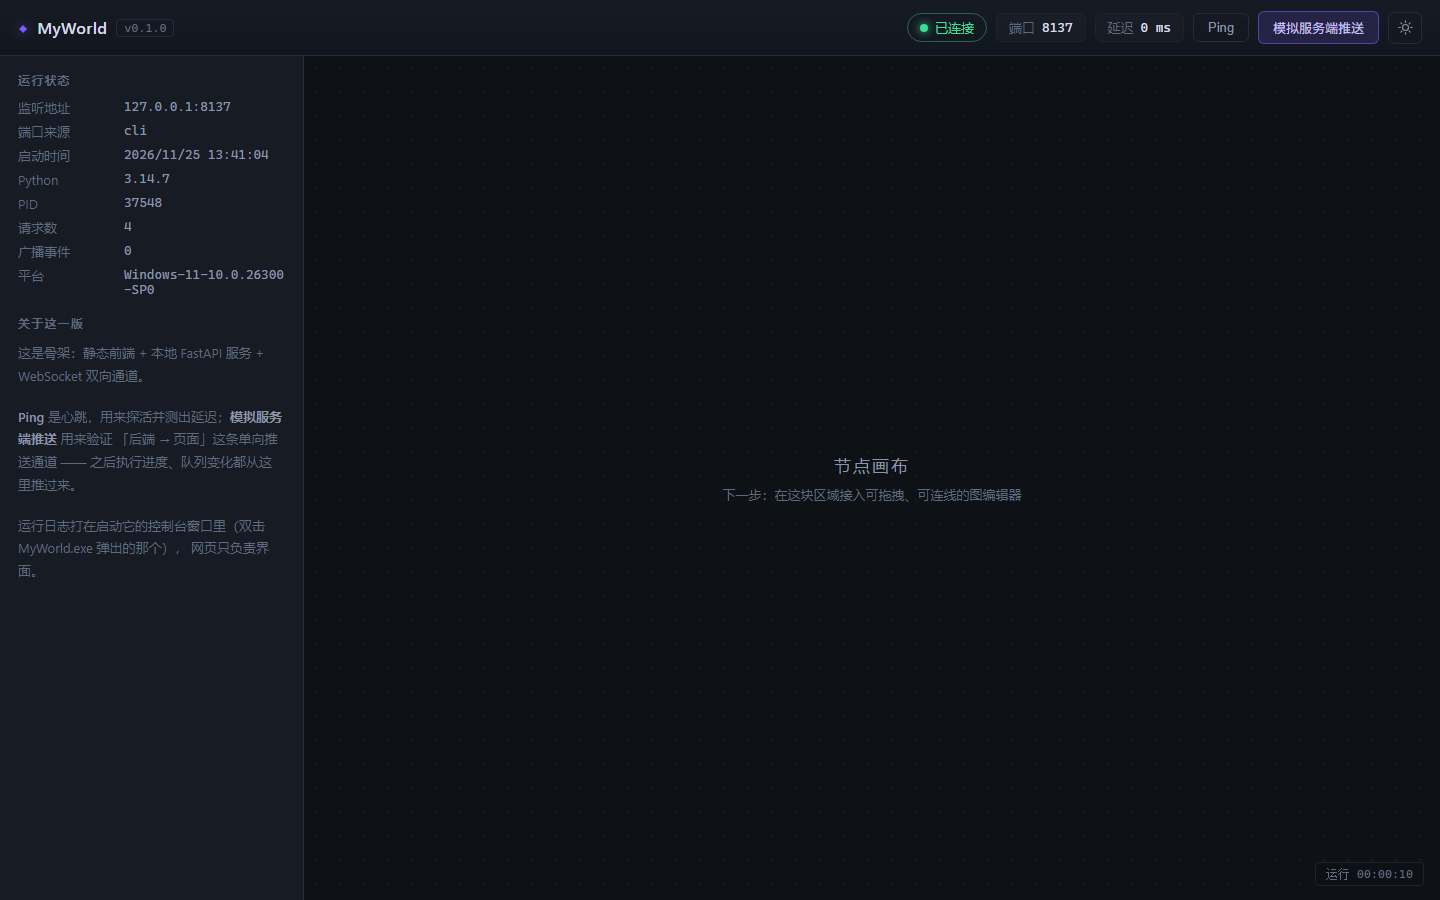
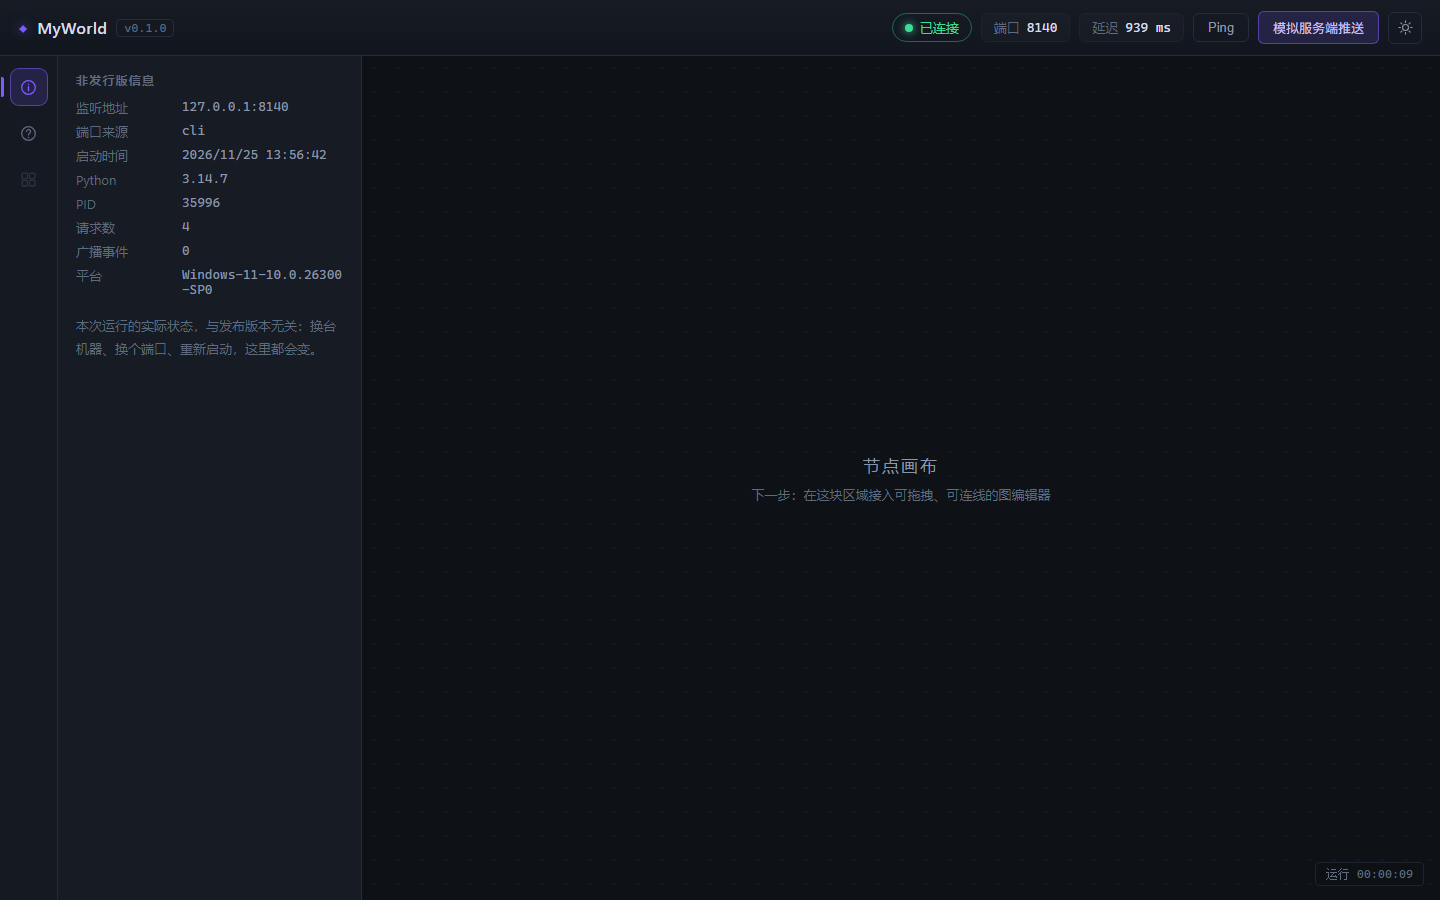
feat: 左侧新增竖向功能区，「非发行版信息」承载运行状态
- index.html: 最左侧加 .rail（58px 竖向图标栏），项：非发行版信息 / 关于 / 节点画布（禁用占位）
- 内容面板拆成 .pane：运行状态并入「非发行版信息」，说明文案移到「关于」
- app.js: 功能区切换（is-active + aria-pressed，隐藏非当前 pane）
- css: 布局改为 rail + panel + 画布三列，--rail-w 纳入排版刻度；
  窄屏下功能区与面板一起隐藏
- 截图同步更新

diff --git a/web/index.html b/web/index.html
@@ -53,21 +53,57 @@
   </header>
 
   <main class="layout">
+    <!-- 最左侧竖向功能区：一个图标就是一栏内容 -->
+    <nav class="rail" aria-label="功能区">
+      <button class="rail-item is-active" data-pane="info" title="非发行版信息" aria-label="非发行版信息" aria-pressed="true">
+        <svg viewBox="0 0 24 24" aria-hidden="true">
+          <circle cx="12" cy="12" r="8.6" fill="none" stroke="currentColor" stroke-width="1.6" />
+          <path d="M12 10.9v5.2" stroke="currentColor" stroke-width="1.7" stroke-linecap="round" />
+          <circle cx="12" cy="8.2" r="0.95" fill="currentColor" />
+        </svg>
+      </button>
+      <button class="rail-item" data-pane="about" title="关于" aria-label="关于" aria-pressed="false">
+        <svg viewBox="0 0 24 24" aria-hidden="true">
+          <circle cx="12" cy="12" r="8.6" fill="none" stroke="currentColor" stroke-width="1.6" />
+          <path d="M9.6 9.4a2.5 2.5 0 1 1 3.7 2.3c-.9.5-1.3 1-1.3 1.9v.4"
+                fill="none" stroke="currentColor" stroke-width="1.6" stroke-linecap="round" />
+          <circle cx="12" cy="17.1" r="0.95" fill="currentColor" />
+        </svg>
+      </button>
+      <button class="rail-item" data-pane="canvas" title="节点画布（即将推出）" aria-label="节点画布（即将推出）" disabled>
+        <svg viewBox="0 0 24 24" aria-hidden="true">
+          <rect x="3.8" y="3.8" width="7" height="7" rx="1.4" fill="none" stroke="currentColor" stroke-width="1.6" />
+          <rect x="13.2" y="3.8" width="7" height="7" rx="1.4" fill="none" stroke="currentColor" stroke-width="1.6" />
+          <rect x="3.8" y="13.2" width="7" height="7" rx="1.4" fill="none" stroke="currentColor" stroke-width="1.6" />
+          <rect x="13.2" y="13.2" width="7" height="7" rx="1.4" fill="none" stroke="currentColor" stroke-width="1.6" />
+        </svg>
+      </button>
+    </nav>
+
+    <!-- 功能区对应的内容面板 -->
     <aside class="panel">
-      <h2>运行状态</h2>
-      <dl class="meta" id="meta"></dl>
-      <h2>关于这一版</h2>
-      <p class="hint">
-        这是骨架：静态前端 + 本地 FastAPI 服务 + WebSocket 双向通道。
-      </p>
-      <p class="hint">
-        <b>Ping</b> 是心跳，用来探活并测出延迟；<b>模拟服务端推送</b> 用来验证
-        「后端 → 页面」这条单向推送通道 —— 之后执行进度、队列变化都从这里推过来。
-      </p>
-      <p class="hint">
-        运行日志打在启动它的控制台窗口里（双击 MyWorld.exe 弹出的那个），
-        网页只负责界面。
-      </p>
+      <section class="pane" data-pane="info">
+        <h2>非发行版信息</h2>
+        <dl class="meta" id="meta"></dl>
+        <p class="hint">
+          本次运行的实际状态，与发布版本无关：换台机器、换个端口、重新启动，这里都会变。
+        </p>
+      </section>
+
+      <section class="pane" data-pane="about" hidden>
+        <h2>关于这一版</h2>
+        <p class="hint">
+          这是骨架：静态前端 + 本地 FastAPI 服务 + WebSocket 双向通道。
+        </p>
+        <p class="hint">
+          <b>Ping</b> 是心跳，用来探活并测出延迟；<b>模拟服务端推送</b> 用来验证
+          「后端 → 页面」这条单向推送通道 —— 之后执行进度、队列变化都从这里推过来。
+        </p>
+        <p class="hint">
+          运行日志打在启动它的控制台窗口里（双击 MyWorld.exe 弹出的那个），
+          网页只负责界面。
+        </p>
+      </section>
     </aside>
 
     <section class="canvas-wrap">

diff --git a/web/css/style.css b/web/css/style.css
@@ -85,6 +85,7 @@
   --fs-heading: 17px;
   --topbar-h: 56px;
   --panel-w: 304px;
+  --rail-w: 58px;
 }
 
 * {
@@ -268,8 +269,69 @@ body {
 /* ---------- 主体 ---------- */
 .layout {
   display: grid;
-  grid-template-columns: var(--panel-w) minmax(0, 1fr);
+  grid-template-columns: var(--rail-w) var(--panel-w) minmax(0, 1fr);
   min-height: 0;
+}
+
+/* ---------- 最左侧竖向功能区 ---------- */
+.rail {
+  display: flex;
+  flex-direction: column;
+  align-items: center;
+  gap: 8px;
+  padding: 12px 0;
+  background: var(--bg-soft);
+  border-right: 1px solid var(--border);
+  transition: background-color 0.18s ease, border-color 0.18s ease;
+}
+
+.rail-item {
+  position: relative;
+  display: grid;
+  place-items: center;
+  width: 38px;
+  height: 38px;
+  padding: 0;
+  border: 1px solid transparent;
+  border-radius: 9px;
+  background: transparent;
+  color: var(--text-faint);
+  cursor: pointer;
+  transition: color 0.15s, background 0.15s, border-color 0.15s;
+}
+
+.rail-item svg {
+  width: 19px;
+  height: 19px;
+}
+
+.rail-item:hover:not([disabled]) {
+  color: var(--text);
+  background: var(--ghost-hover-bg);
+}
+
+.rail-item.is-active {
+  color: var(--accent);
+  background: var(--accent-soft);
+  border-color: var(--btn-border);
+}
+
+/* 当前项左边一条强调竖线 */
+.rail-item.is-active::before {
+  content: "";
+  position: absolute;
+  left: -10px;
+  top: 50%;
+  width: 3px;
+  height: 20px;
+  margin-top: -10px;
+  border-radius: 0 2px 2px 0;
+  background: var(--accent);
+}
+
+.rail-item[disabled] {
+  opacity: 0.34;
+  cursor: not-allowed;
 }
 
 .panel {
@@ -401,12 +463,14 @@ body {
 @media (max-width: 900px) {
   :root {
     --panel-w: 0px;
+    --rail-w: 0px;
   }
 
   .layout {
     grid-template-columns: minmax(0, 1fr);
   }
 
+  .rail,
   .panel {
     display: none;
   }

diff --git a/web/js/app.js b/web/js/app.js
@@ -82,6 +82,29 @@
     }
   }
 
+  // ---------------- 左侧功能区 ----------------
+
+  function initRail() {
+    const items = Array.from(document.querySelectorAll(".rail-item"));
+    const panes = Array.from(document.querySelectorAll(".pane"));
+
+    function activate(name) {
+      items.forEach((item) => {
+        const active = item.dataset.pane === name;
+        item.classList.toggle("is-active", active);
+        item.setAttribute("aria-pressed", String(active));
+      });
+      panes.forEach((pane) => {
+        pane.hidden = pane.dataset.pane !== name;
+      });
+    }
+
+    items.forEach((item) => {
+      if (item.disabled) return;
+      item.addEventListener("click", () => activate(item.dataset.pane));
+    });
+  }
+
   // ---------------- 连接状态 ----------------
 
   function setConnection(status, label) {
@@ -304,6 +327,7 @@
   // ---------------- 启动 ----------------
 
   initTheme();
+  initRail();
   refreshStatus();
   loadConfig();
   connect();

diff --git a/README.md b/README.md
@@ -124,7 +124,7 @@ myworld/
   events.py            进程内事件总线（发布 → 多个 WS 订阅者）
   server.py            FastAPI 应用：REST + WebSocket + 静态托管
 web/
-  index.html           界面结构
+  index.html           界面结构：顶栏 / 左侧功能区 / 内容面板 / 画布
   css/style.css        明暗两套主题 + 排版刻度（全部是 CSS 变量）
   js/app.js            状态渲染、WS 连接/心跳/重连（日志在控制台，页面不放日志）
 tests/
